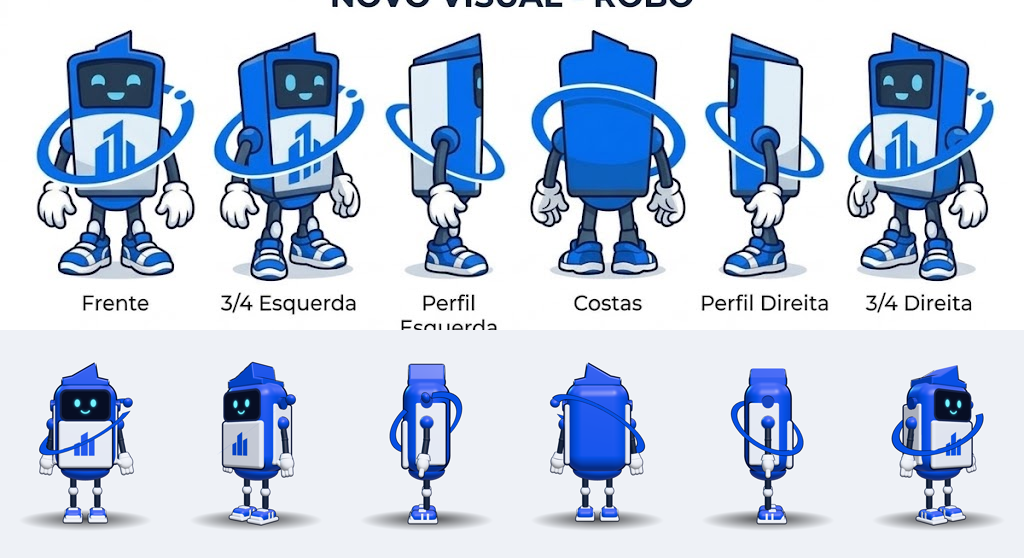
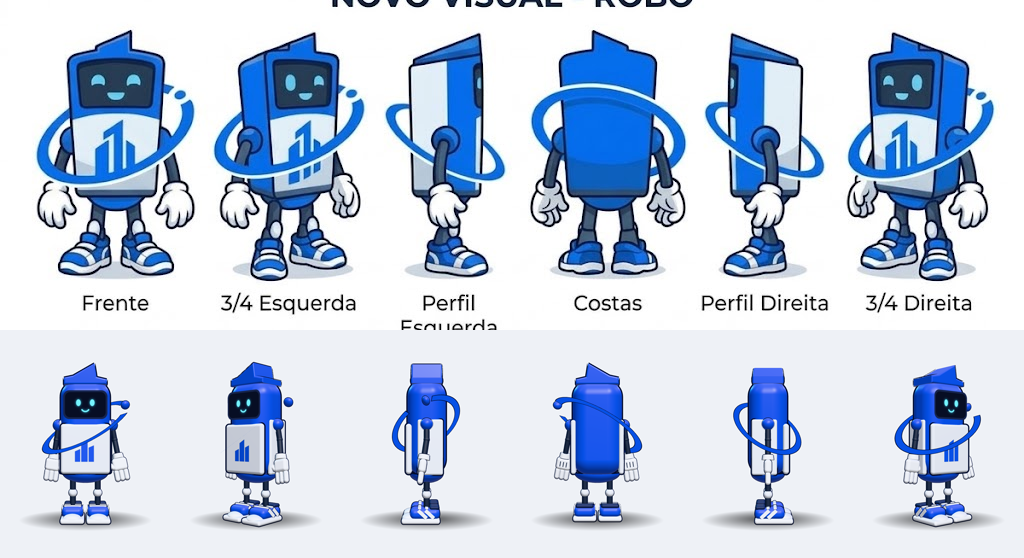
Giro v2 3D: luva e tênis refeitos a partir da folha 3D (palma achatada, dedos longos, costuras; bico com biqueira, sola grossa, listras, fechos)

diff --git a/personagens/giro-v2-3d/modelo/giro.js b/personagens/giro-v2-3d/modelo/giro.js
@@ -74,11 +74,17 @@ export function criarGiro({ THREE, RoundedBoxGeometry, canvasTex, rr, mesh, mat,
     const el = new THREE.Group(); el.position.y = -0.26; sh.add(el);
     el.add(mesh(new THREE.SphereGeometry(0.045, 12, 10), M.dark));
     el.add(mesh(new THREE.CylinderGeometry(0.04, 0.04, 0.26, 12), M.dark, 0, -0.13, 0));       // antebraco fino
-    const cuff = mesh(new THREE.CylinderGeometry(0.09, 0.14, 0.1, 20), M.glove, 0, -0.28, 0); el.add(cuff);   // punho da luva
-    const hand = new THREE.Group(); hand.position.y = -0.43; hand.scale.setScalar(1.6); el.add(hand);   // luva grande, de desenho
-    const palm = mesh(new THREE.SphereGeometry(0.12, 20, 14), M.glove); palm.scale.set(1, 1, 0.75); hand.add(palm);   // luva branca, gordinha
-    const thumb = mesh(new THREE.CapsuleGeometry(0.04, 0.06, 4, 10), M.glove, -s * 0.11, 0.02, 0.04); thumb.rotation.z = s * 0.8; hand.add(thumb);
-    const fingers = [-1, 0, 1].map(k => { const f = mesh(new THREE.CapsuleGeometry(0.038, 0.08, 4, 10), M.glove, k * 0.062, -0.12, 0); hand.add(f); return f; });
+    // luva de desenho (folha referencias/folhas/giro-v2_folha-3d-luva-tenis.png): punho curto, palma achatada,
+    // tres dedos longos e gordinhos, polegar separado, tres costuras no dorso
+    el.add(mesh(new THREE.CylinderGeometry(0.085, 0.095, 0.08, 20), M.glove, 0, -0.29, 0));                 // punho
+    const hand = new THREE.Group(); hand.position.y = -0.34; el.add(hand);
+    hand.add(mesh(new RoundedBoxGeometry(0.26, 0.22, 0.12, 4, 0.055), M.glove, 0, -0.1, 0));                 // palma
+    const fingers = [-1, 0, 1].map(k => {
+      const f = mesh(new THREE.CapsuleGeometry(0.043, 0.12, 6, 12), M.glove, k * 0.082, -0.29, 0);
+      f.rotation.z = k * 0.06; hand.add(f); return f;                                                       // dedos levemente abertos
+    });
+    const thumb = mesh(new THREE.CapsuleGeometry(0.042, 0.09, 6, 12), M.glove, -s * 0.15, -0.11, 0.02); thumb.rotation.z = s * 0.75; hand.add(thumb);
+    for (const k of [-1, 0, 1]) hand.add(mesh(new THREE.BoxGeometry(0.012, 0.09, 0.004), M.dark, k * 0.055, -0.1, -0.061));   // costuras no dorso
     return { sh, el, fingers, s };
   }
   const arms = [arm(-1), arm(1)];
@@ -88,12 +94,14 @@ export function criarGiro({ THREE, RoundedBoxGeometry, canvasTex, rr, mesh, mat,
     const knee = new THREE.Group(); knee.position.y = -0.33; hip.add(knee);
     knee.add(mesh(new THREE.SphereGeometry(0.075, 18, 12), M.white));                          // joelho branco
     knee.add(mesh(new THREE.CylinderGeometry(0.045, 0.045, 0.24, 12), M.dark, 0, -0.14, 0));    // canela fina
-    const foot = new THREE.Group(); foot.position.set(0, -0.355, 0.07); foot.scale.setScalar(1.45); knee.add(foot);   // tenis grande (o pe gira inteiro); sola no chao
-    foot.add(mesh(new RoundedBoxGeometry(0.26, 0.18, 0.4, 3, 0.08), M.blue, 0, 0.035, 0));                   // cabedal azul
-    foot.add(mesh(new RoundedBoxGeometry(0.3, 0.06, 0.46, 3, 0.025), M.glove, 0, -0.05, 0.01));             // sola branca
-    foot.add(mesh(new RoundedBoxGeometry(0.24, 0.09, 0.13, 3, 0.04), M.glove, 0, -0.005, 0.15));            // biqueira branca
-    for (const z of [-0.07, 0.02]) for (const x of [-1, 1]) foot.add(mesh(new THREE.BoxGeometry(0.012, 0.1, 0.035), M.glove, x * 0.132, 0.03, z));   // listras
-    foot.add(mesh(new RoundedBoxGeometry(0.16, 0.035, 0.12, 2, 0.015), M.glove, 0, 0.1, 0.02));             // cadarco
+    // tenis (folha 3D): sola branca grossa, bico com biqueira branca, duas listras inclinadas, fechos e gola escura
+    const foot = new THREE.Group(); foot.position.set(0, -0.39, 0.07); knee.add(foot);                     // o pe gira inteiro; sola no chao
+    foot.add(mesh(new RoundedBoxGeometry(0.4, 0.09, 0.64, 3, 0.04), M.glove, 0, -0.035, 0.03));             // sola
+    foot.add(mesh(new RoundedBoxGeometry(0.36, 0.18, 0.5, 4, 0.08), M.blue, 0, 0.08, -0.04));               // cabedal
+    const toe = mesh(new THREE.SphereGeometry(1, 24, 16, 0, Math.PI * 2, 0, Math.PI / 2), M.glove, 0, -0.01, 0.23); toe.scale.set(0.16, 0.085, 0.12); foot.add(toe);   // biqueira
+    for (const x of [-1, 1]) for (const z of [-0.12, 0.0]) { const st = mesh(new THREE.BoxGeometry(0.012, 0.06, 0.19), M.glove, x * 0.181, 0.085, z); st.rotation.x = -0.75; foot.add(st); }   // listras
+    for (const z of [0.05, -0.07]) { const strap = mesh(new RoundedBoxGeometry(0.3, 0.03, 0.055, 2, 0.012), M.glove, 0, 0.175, z); strap.rotation.x = -0.15; foot.add(strap); }   // fechos de velcro
+    foot.add(mesh(new RoundedBoxGeometry(0.3, 0.06, 0.16, 2, 0.03), M.navy, 0, 0.18, -0.2));                // gola no tornozelo
     return { hip, knee, foot, s };
   });
   // bola de futebol (aparece na pose final); manchas pretas nos 12 pentagonos do icosaedro
